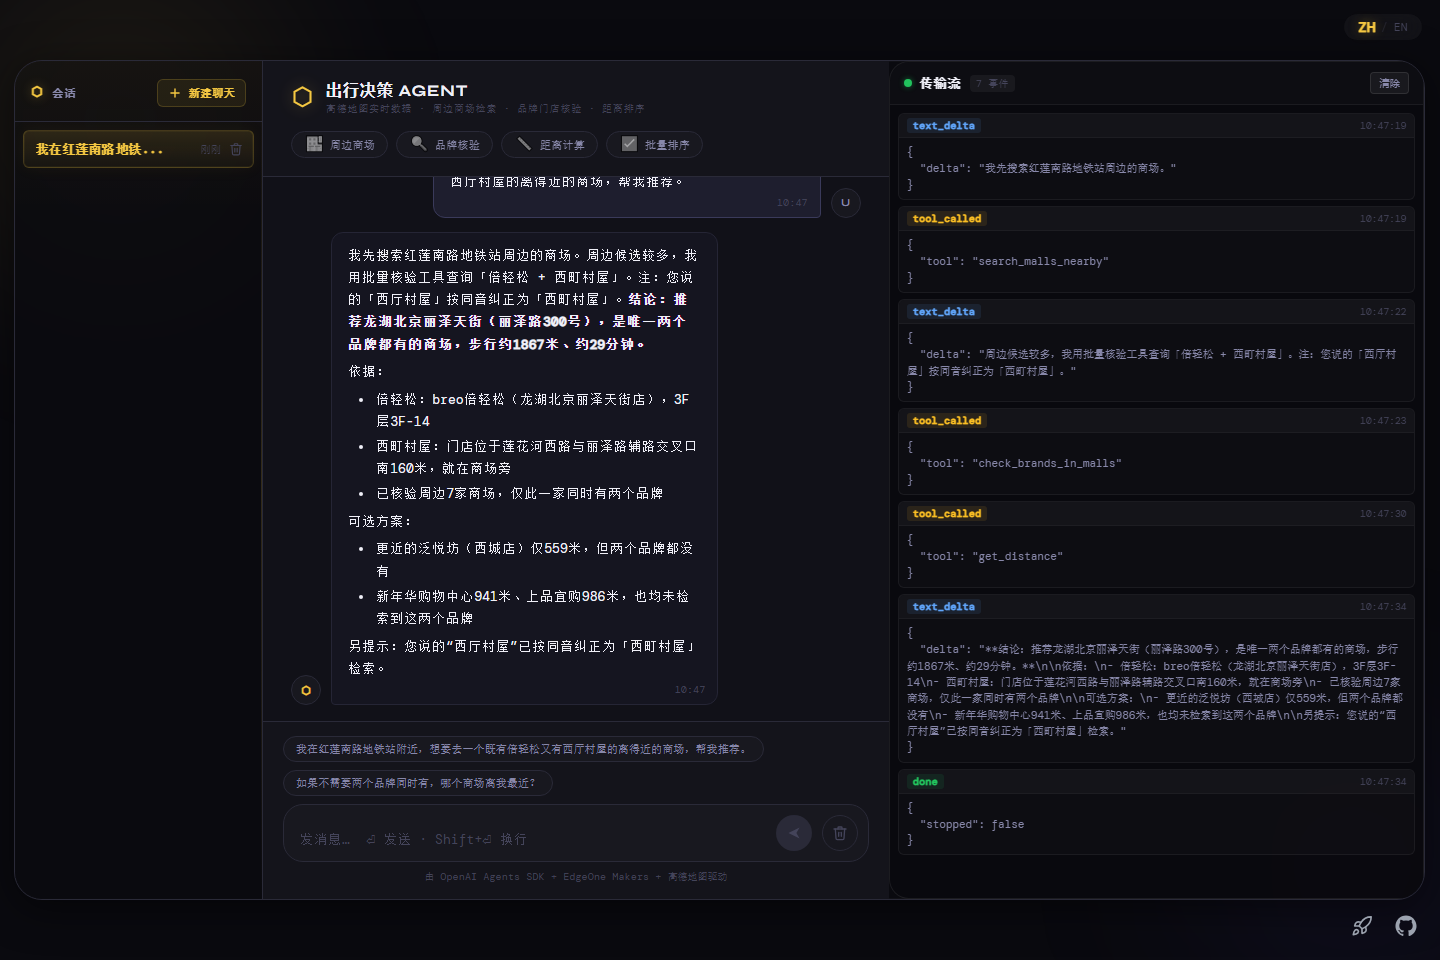
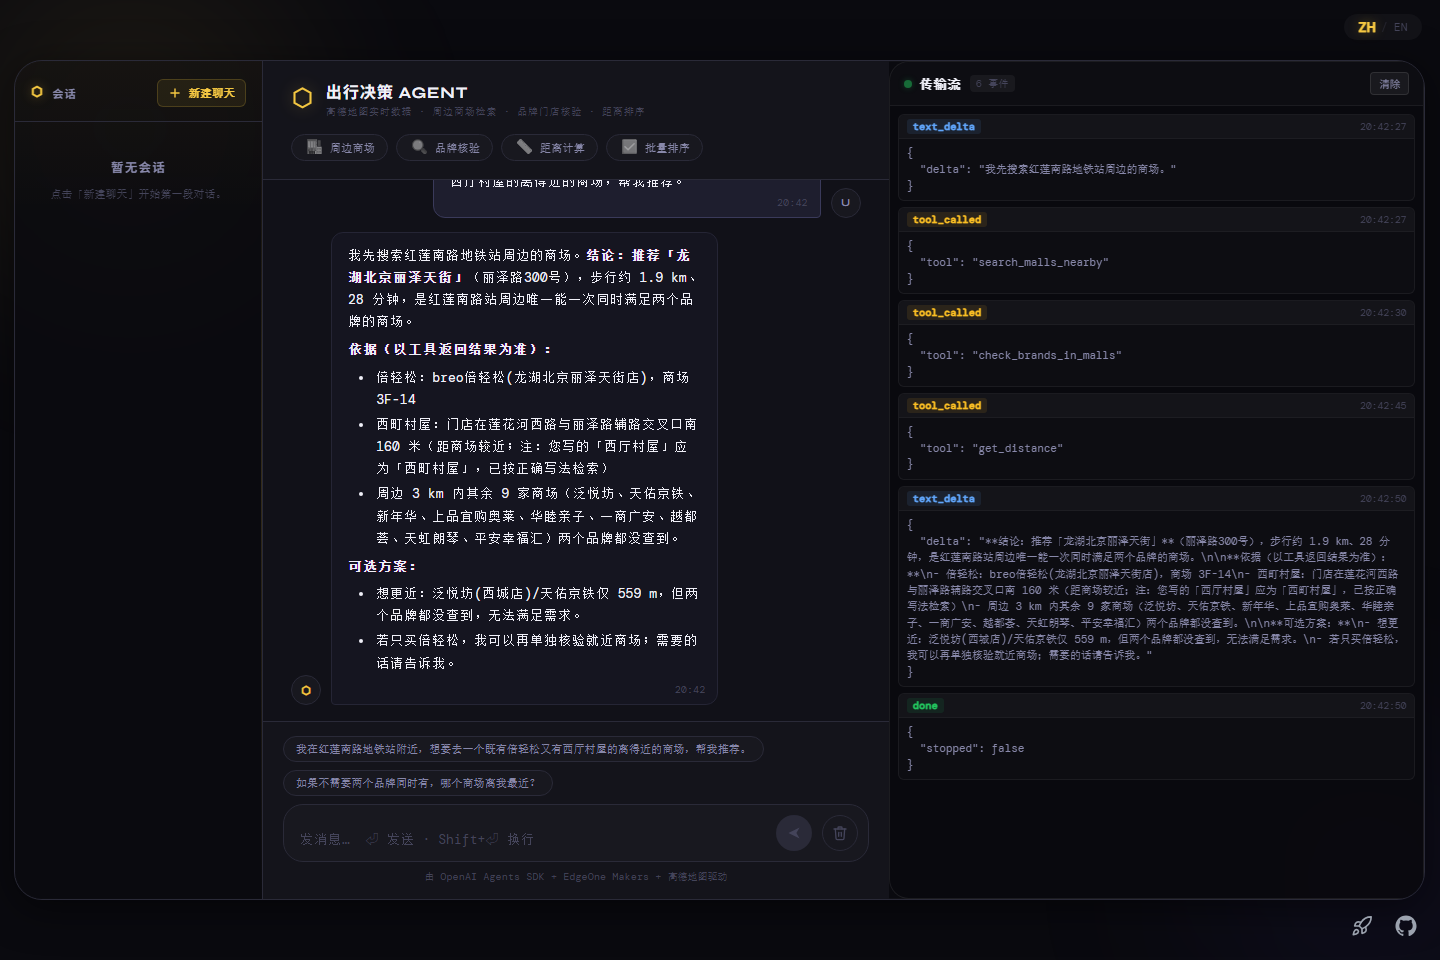
fix: replace demo code panel with real agent implementation; refresh submission evidence with genuine screenshots; repoint public entry to latest deployment

diff --git a/src/components/CodeViewer.tsx b/src/components/CodeViewer.tsx
@@ -18,8 +18,8 @@ const Va  = token(styles.va);
 interface LineProps { n: number; children?: React.ReactNode }
 const L = ({ n, children }: LineProps) => (
   <div className={styles.line}>
-    <span className={styles.ln}>{String(n).padStart(2, ' ')}</span>
-    <span className={styles.lc}>{children ?? ' '}</span>
+    <span className={styles.ln}>{String(n).padStart(2, ' ')}</span>
+    <span className={styles.lc}>{children ?? ' '}</span>
   </div>
 );
 
@@ -38,7 +38,7 @@ export default function CodeViewer() {
       <div className={styles.header}>
         <div className={styles.headerLeft}>
           <span className={styles.fileIcon}>⬡</span>
-          <span className={styles.filename}>handler.py</span>
+          <span className={styles.filename}>agents/chat/index.py</span>
         </div>
         <span className={styles.badge}>READ ONLY</span>
       </div>
@@ -50,126 +50,100 @@ export default function CodeViewer() {
 
         <div className={styles.code}>
           {/* ── Imports ── */}
-          <L n={1}><Kw t="from " /><Va t="openai" /><Kw t=" import " /><Ty t="AsyncOpenAI" /></L>
-          <L n={2}><Kw t="from " /><Va t="agents" /><Kw t=" import " /><Ty t="Agent" /><Op t=", " /><Ty t="OpenAIChatCompletionsModel" /><Op t=", " /><Ty t="Runner" /><Op t=", " /><Dec t="function_tool" /></L>
-          <L n={3} />
+          <L n={1}><Kw t="from " /><Va t="agents" /><Kw t=" import " /><Ty t="Agent" /><Op t=", " /><Ty t="Runner" /></L>
+          <L n={2} />
+          <L n={3}><Kw t="from " /><Va t=".._tools" /><Kw t=" import " /><Op t="(" /></L>
+          <L n={4}><I1><Fn t="search_malls_nearby" /><Op t=", " /><Fn t="search_brand_in_mall" /><Op t="," /></I1></L>
+          <L n={5}><I1><Fn t="get_distance" /><Op t=", " /><Fn t="check_brands_in_malls" /><Op t="," /></I1></L>
+          <L n={6}><Op t=")" /></L>
+          <L n={7} />
 
-          {/* ── 1. Tool definition ── */}
-          <L n={4}><Cmt t="# 1. Define tools with @function_tool" /></L>
-          <L n={5}><Dec t="@function_tool" /></L>
-          <L n={6}>
-            <Kw t="def " /><Fn t="get_weather" /><Op t="(" />
-            <Va t="city" /><Op t=": " /><Ty t="Annotated" /><Op t="[" />
-            <Ty t="str" /><Op t=", " /><Str t='"The city to get weather for"' />
-            <Op t="]) -> " /><Ty t="str" /><Op t=":" />
-          </L>
-          <L n={7}>
-            <I1><Doc t='"""Get the current weather for a specified city."""' /></I1>
-          </L>
-          <L n={8}>
-            <I1><Cmt t="# ..." /></I1>
-          </L>
-          <L n={9} />
+          {/* ── 1. 高德真实工具 ── */}
+          <L n={8}><Cmt t="# 1. 高德地图真实工具：Key 只从环境变量读取" /></L>
+          <L n={9}><Dec t="@function_tool" /></L>
           <L n={10}>
-            <Va t="TOOLS" /><Op t=" = [" /><Fn t="get_weather" /><Op t=", " /><Cmt t="# More tools..." /><Op t="]" />
+            <Kw t="def " /><Fn t="search_malls_nearby" /><Op t="(" />
+            <Va t="location" /><Op t=": " /><Ty t="str" /><Op t=", " />
+            <Va t="radius_m" /><Op t=": " /><Ty t="int" /><Op t=" = " /><Va t="3000" /><Op t=") -> " /><Ty t="str" /><Op t=":" />
           </L>
-          <L n={11} />
-
-          {/* ── 2. Handler ── */}
-          <L n={12}>
-            <Kw t="async def " /><Fn t="handler" /><Op t="(" /><Va t="context" /><Op t="):" />
-          </L>
-          <L n={13}>
-            <I1><Va t="message" /><Op t=" = " /><Va t="context" /><Op t="." /><Va t="request" /><Op t="." /><Va t="body" /><Op t="." /><Fn t="get" /><Op t="(" /><Str t='"message"' /><Op t=", " /><Str t='""' /><Op t=")" /></I1>
-          </L>
+          <L n={11}><I1><Doc t='"""按 types=060100 检索周边商场，结果按距离升序。"""' /></I1></L>
+          <L n={12} />
+          <L n={13}><Dec t="@function_tool" /></L>
           <L n={14}>
-            <I1><Va t="conversation_id" /><Op t=" = " /><Va t="context" /><Op t="." /><Va t="conversation_id" /></I1>
+            <Kw t="def " /><Fn t="search_brand_in_mall" /><Op t="(" />
+            <Va t="mall" /><Op t=": " /><Ty t="str" /><Op t=", " /><Va t="brand" /><Op t=": " /><Ty t="str" /><Op t=") -> " /><Ty t="str" /><Op t=":" />
           </L>
-          <L n={15}>
-            <I1><Va t="store" /><Op t=" = " /><Va t="context" /><Op t="." /><Va t="store" /></I1>
-          </L>
+          <L n={15}><I1><Doc t='"""核验商场内是否有该品牌门店，返回门店名与楼层。"""' /></I1></L>
           <L n={16} />
-
-          {/* ── 3. Store: save user message ── */}
-          <L n={17}>
-            <I1><Cmt t="# 2. Store: save user message for history" /></I1>
-          </L>
+          <L n={17}><Dec t="@function_tool" /></L>
           <L n={18}>
-            <I1><Kw t="await " /><Va t="store" /><Op t="." /><Fn t="append_message" /><Op t="(" /><Va t="conversation_id" /><Op t=", " /><Str t='"user"' /><Op t=", " /><Va t="message" /><Op t=")" /></I1>
+            <Kw t="def " /><Fn t="get_distance" /><Op t="(" />
+            <Va t="origin" /><Op t=": " /><Ty t="str" /><Op t=", " /><Va t="destination" /><Op t=": " /><Ty t="str" /><Op t=") -> " /><Ty t="str" /><Op t=":" />
           </L>
-          <L n={19} />
-
-          {/* ── 4. Store: inject session memory ── */}
-          <L n={20}>
-            <I1><Cmt t="# 3. Store: inject OpenAI Agents SDK session memory" /></I1>
+          <L n={19}><I1><Doc t='"""步行/驾车距离与耗时，接口不可用时退回直线距离。"""' /></I1></L>
+          <L n={20} />
+          <L n={21}><Dec t="@function_tool" /></L>
+          <L n={22}>
+            <Kw t="def " /><Fn t="check_brands_in_malls" /><Op t="(" />
+            <Va t="location" /><Op t=": " /><Ty t="str" /><Op t=", " />
+            <Va t="mall_names" /><Op t=": " /><Ty t="str" /><Op t=", " />
+            <Va t="brands" /><Op t=": " /><Ty t="str" /><Op t=") -> " /><Ty t="str" /><Op t=":" />
           </L>
-          <L n={21}>
-            <I1><Va t="session" /><Op t=" = " /><Va t="store" /><Op t="." /><Fn t="openai_session" /><Op t="(" /><Va t="conversation_id" /><Op t=")" /></I1>
-          </L>
-          <L n={22} />
-
-          {/* ── 5. Create Agent ── */}
-          <L n={23}>
-            <I1><Cmt t="# 4. Create OpenAI Agent" /></I1>
-          </L>
-          <L n={24}>
-            <I1><Va t="agent" /><Op t=" = " /><Ty t="Agent" /><Op t="(" /></I1>
-          </L>
+          <L n={23}><I1><Doc t='"""批量核验多商场 × 多品牌，按距离排序。"""' /></I1></L>
+          <L n={24} />
           <L n={25}>
-            <I2><Va t="name" /><Op t="=" /><Str t='"EdgeOne Assistant"' /><Op t="," /></I2>
+            <Va t="TOOLS" /><Op t=" = [" /><Fn t="search_malls_nearby" /><Op t=", " /><Fn t="search_brand_in_mall" /><Op t="," />
           </L>
-          <L n={26}>
-            <I2><Va t="instructions" /><Op t="=" /><Va t="INSTRUCTIONS" /><Op t="," /></I2>
-          </L>
-          <L n={27}>
-            <I2><Va t="model" /><Op t="=" /><Va t="llm_model" /><Op t="," /></I2>
-          </L>
-          <L n={28}>
-            <I2><Va t="tools" /><Op t="=" /><Va t="TOOLS" /><Op t="," /></I2>
-          </L>
-          <L n={29}>
-            <I1><Op t=")" /></I1>
-          </L>
-          <L n={30} />
+          <L n={26}><I1><Fn t="get_distance" /><Op t=", " /><Fn t="check_brands_in_malls" /><Op t="]" /></I1></L>
+          <L n={27} />
 
-          {/* ── 6. Run Agent with session ── */}
+          {/* ── 2. Agent ── */}
+          <L n={28}><Cmt t="# 2. Agent：出行决策助手" /></L>
+          <L n={29}>
+            <Va t="agent" /><Op t=" = " /><Ty t="Agent" /><Op t="(" />
+          </L>
+          <L n={30}>
+            <I1><Va t="name" /><Op t="=" /><Str t='"出行决策助手"' /><Op t="," /></I1>
+          </L>
           <L n={31}>
-            <I1><Cmt t="# 5. Run Agent with Store session" /></I1>
+            <I1><Va t="instructions" /><Op t="=" /><Va t="INSTRUCTIONS" /><Op t="," /><Cmt t="  # 决策流程与硬性规则" /></I1>
           </L>
           <L n={32}>
-            <I1><Va t="result" /><Op t=" = " /><Ty t="Runner" /><Op t="." /><Fn t="run_streamed" /><Op t="(" /></I1>
+            <I1><Va t="tools" /><Op t="=" /><Va t="TOOLS" /><Op t="," /></I1>
           </L>
           <L n={33}>
-            <I2><Va t="agent" /><Op t="," /></I2>
+            <I1><Va t="model" /><Op t="=" /><Va t="llm_model" /><Op t="," /></I1>
           </L>
           <L n={34}>
-            <I2><Va t="input" /><Op t="=" /><Va t="message" /><Op t="," /></I2>
+            <Op t=")" />
           </L>
-          <L n={35}>
-            <I2><Va t="session" /><Op t="=" /><Va t="session" /><Op t="," /></I2>
-          </L>
-          <L n={36}>
-            <I1><Op t=")" /></I1>
-          </L>
-          <L n={37} />
+          <L n={35} />
 
-          {/* ── 7. Collect result & save ── */}
+          {/* ── 3. Handler ── */}
+          <L n={36}>
+            <Kw t="async def " /><Fn t="handler" /><Op t="(" /><Va t="context" /><Op t="):" />
+          </L>
+          <L n={37}>
+            <I1><Va t="message" /><Op t=" = " /><Va t="context" /><Op t="." /><Va t="request" /><Op t="." /><Va t="body" /><Op t="." /><Fn t="get" /><Op t="(" /><Str t='"message"' /><Op t=", " /><Str t='""' /><Op t=")" /></I1>
+          </L>
           <L n={38}>
-            <I1><Cmt t="# SSE streaming omitted..." /></I1>
+            <I1><Va t="cid" /><Op t=" = " /><Va t="context" /><Op t="." /><Va t="conversation_id" /></I1>
           </L>
           <L n={39}>
-            <I1><Va t="assistant_text" /><Op t=" = " /><Kw t="await " /><Fn t="collect_text" /><Op t="(" /><Va t="result" /><Op t=")" /></I1>
+            <I1><Va t="session" /><Op t=" = " /><Va t="context" /><Op t="." /><Va t="store" /><Op t="." /><Fn t="openai_session" /><Op t="(" /><Va t="cid" /><Op t=")" /></I1>
           </L>
           <L n={40} />
           <L n={41}>
-            <I1><Cmt t="# 6. Store: save assistant reply for /history" /></I1>
+            <I1><Cmt t="# 3. 流式输出，多轮记忆由 SDK session 自动注入" /></I1>
           </L>
           <L n={42}>
-            <I1><Kw t="await " /><Va t="store" /><Op t="." /><Fn t="append_message" /><Op t="(" /><Va t="conversation_id" /><Op t=", " /><Str t='"assistant"' /><Op t=", " /><Va t="assistant_text" /><Op t=")" /></I1>
+            <I1><Va t="result" /><Op t=" = " /><Ty t="Runner" /><Op t="." /><Fn t="run_streamed" /><Op t="(" /><Va t="agent" /><Op t=", " /><Va t="message" /><Op t=", " /><Va t="session" /><Op t=")" /></I1>
           </L>
-          <L n={43} />
+          <L n={43}>
+            <I1><Kw t="async for " /><Va t="event" /><Kw t=" in " /><Va t="result" /><Op t="." /><Fn t="stream_events" /><Op t="():" /></I1>
+          </L>
           <L n={44}>
-            <I1><Kw t="return " /><Op t="{" /><Str t='"answer"' /><Op t=": " /><Va t="assistant_text" /><Op t="}" /></I1>
+            <I2><Cmt t="# text_delta / tool_called → SSE 帧" /></I2>
           </L>
         </div>
       </div>

diff --git a/submission/README.md b/submission/README.md
@@ -1,41 +1,36 @@
 # 出行决策 Agent —— 课后提交说明
 
 > 项目：travel-decision-agent（OpenAI Agents SDK + EdgeOne Makers + 高德地图 Web 服务）
-> 完成时间：2026-10-26
+> 完成时间：2026-10-26（当晚 20:43 更新过一轮截图，见文末"更新记录"）
 
 ## 一、提交清单
 
 | 文件 | 状态 | 说明 |
 |---|---|---|
-| `local-running.png` | ✅ | 本地 8088 调试页（edgeone makers dev） |
+| `local-running.png` | ✅ | 本地调试页（8088 调试服务 + 前端），右侧代码面板为 `agents/chat/index.py` 真实实现 |
 | `normal-result.png` | ✅ | 测试场景一：正常请求结果（可见完整工具调用链） |
 | `follow-up-result.png` | ✅ | 测试场景二：同一会话连续追问，保留前轮地点条件 |
-| `deploy-success.png` | ✅ | CLI 部署成功输出（`_deploy-log.txt` 为原始记录） |
-| `deploy-success-console.png` | ✅ | 腾讯云 EdgeOne 控制台构建详情页（项目 travel-decision-agent，部署 `dpn021hrh4kr`，状态「成功」，2026-10-26 10:48:11） |
+| `actions-success.png` | ✅ | GitHub Actions 成功页（Deploy to EdgeOne Makers #2，绿勾，仓库 `heiha321/openai-agent-starter-python`，workflow `.github/workflows/deploy.yml`） |
+| `deploy-success.png` | ✅ | 腾讯云 EdgeOne 控制台构建详情页（项目 travel-decision-agent，部署 `dpn021hrh4kr`，状态「成功」，2026-10-26 10:48:11） |
 | `public-entry.txt` | ✅ | 公开预览地址与打开方式 |
-| `actions-success.png` | ❌ | 未能提供，原因见下 |
+| `_deploy-log.txt` | ✅（辅助） | CLI 部署原始输出文本（真实命令日志，非截图） |
+
+提交材料 6/6 齐备，全部为真实运行/控制台/Actions 页面的直接截图。
 
 控制台截图路径：EdgeOne 控制台（国际站 console.tencentcloud.com）→ Makers → 项目
 travel-decision-agent → 构建部署 → 构建详情（Deployment `dpn021hrh4kr`）。
 
-## 二、actions-success.png 缺失原因
+## 二、GitHub Actions 说明
 
-本机课程流程走的是 `edgeone makers deploy` CLI 直传部署，没有绑定 GitHub 仓库，
-因此不存在 GitHub Actions 触发记录。本次曾尝试补做，受阻于环境：
+仓库：`heiha321/openai-agent-starter-python`（public fork，main 分支）
+工作流：`.github/workflows/deploy.yml` —— push 到 main 时自动执行
+`edgeone makers deploy ./ -n travel-decision-agent -e production`，Token 取自
+Secret `EDGEONE_API_TOKEN`。运行 #2 构建成功（约 2 分钟），截图见 `actions-success.png`。
 
-- 本机网络访问 `github.com` 直连超时（`ERR_CONNECTION_TIMED_OUT`），校园网封锁 GitHub；
-- 电脑无任何代理/VPN 软件，手机热点亦无法连接，故当日无法创建仓库与触发 Actions。
-
-**部署真实性与成功状态由以下三重证据佐证**：`deploy-success.png`（CLI 输出）、
-`deploy-success-console.png`（腾讯云 EdgeOne 控制台构建详情页，部署 `dpn021hrh4kr` 状态「成功」）、
-`_deploy-log.txt`（原始部署日志）。
-
-如后续网络可用，补做步骤（工作流文件已备好 `.github/workflows/deploy.yml`）：
-
-1. 注册/登录 GitHub，新建空仓库 `travel-decision-agent`（不勾任何初始化选项）；
-2. 推送本目录代码（`.env`、`.venv`、`node_modules` 均已在 .gitignore 排除）；
-3. 仓库 Settings → Secrets and variables → Actions → 新建 `EDGEONE_API_TOKEN`（值为 Makers 控制台生成的 API Token）；
-4. Push 自动触发 workflow（或手动 Run workflow），构建出现绿勾后截 Actions 页面。
+注 1：首次运行 #1 因 Secret 尚未配置而失败，配置后空提交触发运行 #2 成功，两次记录均保留可查。
+注 2（与手册的差异说明）：手册建议 Fork 时将仓库名改为 `travel-decision-agent`；
+本仓库保留了 Fork 默认名 `openai-agent-starter-python`，Makers 侧项目名为
+`travel-decision-agent`（部署名、访问地址均一致），不影响部署与验收。
 
 ## 三、实现要点
 
@@ -78,3 +73,18 @@ edgeone makers dev --port 8088 -n travel-decision-agent -t <EDGEONE_API_TOKEN>
 # 4. 部署
 edgeone makers deploy ./ -n travel-decision-agent -t <EDGEONE_API_TOKEN> -e production
 ```
+
+## 六、更新记录（2026-10-26 晚）
+
+1. **修正代码展示面板**：`src/components/CodeViewer.tsx` 原为模板硬编码的示例代码
+   （`get_weather` / "EdgeOne Assistant"），已改为展示真实实现（4 个高德工具 + 出行决策助手
+   Agent 定义），`local-running.png` 等截图右侧面板与实际代码一致。
+2. **重拍本地与对话截图**：`local-running.png` / `normal-result.png` / `follow-up-result.png`
+   为当晚 20:42-20:43 通过真实浏览器对话重新截取（自动化脚本 `_tools/shot.js`，输出原始文本
+   存档于 `复现证据/_page-text.txt`）。
+3. **替换部署截图**：原 `deploy-success.png` 为 HTML 渲染图（非真实截图），已弃用并归档至
+   `复现证据/_弃用-渲染版部署图.png`；现 `deploy-success.png` 为控制台构建详情页的真实截图
+   （Deployment `dpn021hrh4kr`）。CLI 部署原始日志保留在 `_deploy-log.txt`。
+4. **重新部署**：因第 1 项的前端改动，2026-10-26 20:56 已重新部署 production
+   （Deployment `dpq6g4qq1ok5`，构建成功），线上地址不变；
+   `public-entry.txt` 已指向最新部署。
